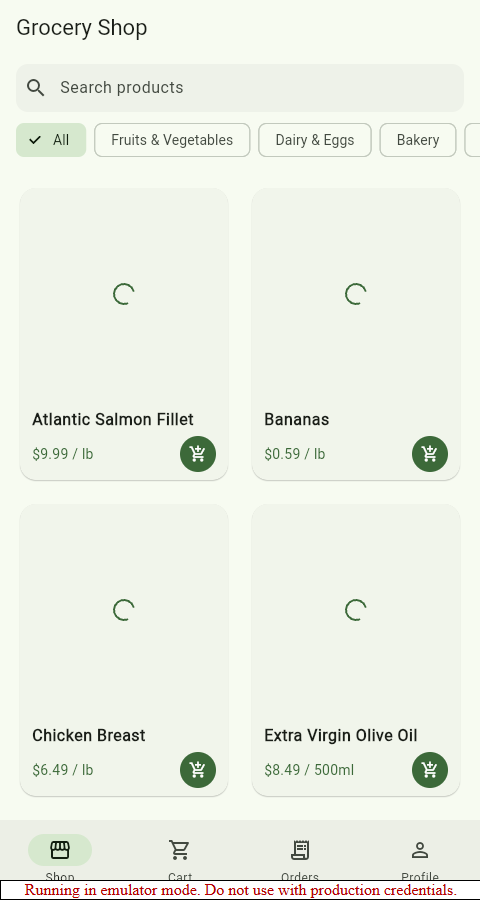
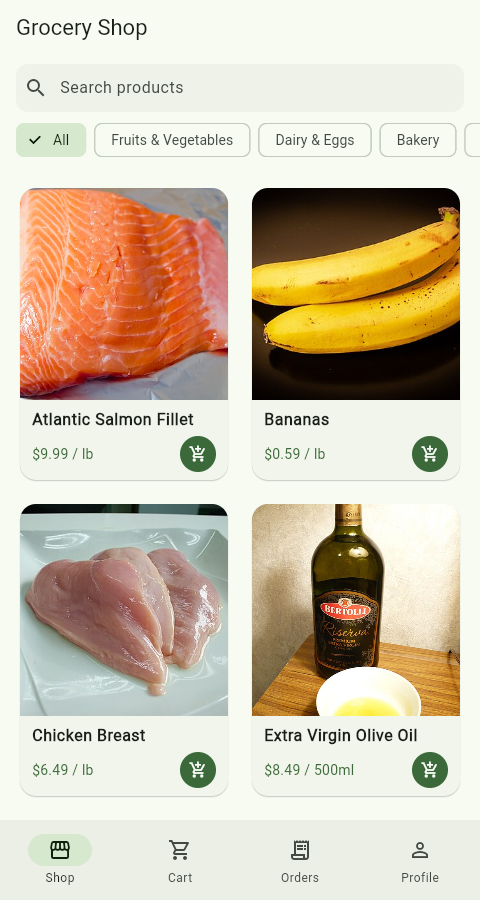
Use real product photos in demo seed data, fix order tile overflow
Replace picsum.photos placeholders (which returned random unrelated
stock photos, not the labeled product) with topically-correct,
CORS-enabled images from Wikimedia Commons for all 16 demo products.

Fix a 1px RenderFlex overflow on the order status chip in OrderTile,
caught by Flutter's debug-mode overflow indicator.

Update docs/screenshots with fresh captures reflecting both fixes.

diff --git a/tool/seed_emulator.dart b/tool/seed_emulator.dart
@@ -17,7 +17,7 @@ final List<Map<String, Object>> _demoProducts = [
     'name': 'Bananas',
     'description': 'Fresh bunch of ripe bananas, sold by the pound.',
     'price': 0.59,
-    'imageUrl': 'https://picsum.photos/seed/bananas/400/400',
+    'imageUrl': 'https://upload.wikimedia.org/wikipedia/commons/thumb/9/98/Bananas_on_black_background_02.jpg/500px-Bananas_on_black_background_02.jpg',
     'category': 'Fruits & Vegetables',
     'unit': 'lb',
     'stock': 150,
@@ -27,7 +27,7 @@ final List<Map<String, Object>> _demoProducts = [
     'name': 'Roma Tomatoes',
     'description': 'Firm, flavorful tomatoes great for sauces and salads.',
     'price': 1.29,
-    'imageUrl': 'https://picsum.photos/seed/tomatoes/400/400',
+    'imageUrl': 'https://upload.wikimedia.org/wikipedia/commons/thumb/b/bf/Roma_Tomatoes_%2853512765752%29.jpg/500px-Roma_Tomatoes_%2853512765752%29.jpg',
     'category': 'Fruits & Vegetables',
     'unit': 'lb',
     'stock': 90,
@@ -37,7 +37,7 @@ final List<Map<String, Object>> _demoProducts = [
     'name': 'Whole Milk',
     'description': 'Vitamin D whole milk, half-gallon carton.',
     'price': 3.49,
-    'imageUrl': 'https://picsum.photos/seed/milk/400/400',
+    'imageUrl': 'https://upload.wikimedia.org/wikipedia/commons/thumb/6/61/Cookies_and_milk.jpg/500px-Cookies_and_milk.jpg',
     'category': 'Dairy & Eggs',
     'unit': 'half-gallon',
     'stock': 60,
@@ -47,7 +47,7 @@ final List<Map<String, Object>> _demoProducts = [
     'name': 'Large Eggs',
     'description': 'Grade A large eggs, dozen.',
     'price': 4.19,
-    'imageUrl': 'https://picsum.photos/seed/eggs/400/400',
+    'imageUrl': 'https://upload.wikimedia.org/wikipedia/commons/thumb/1/12/6-Pack-Chicken-Eggs.jpg/500px-6-Pack-Chicken-Eggs.jpg',
     'category': 'Dairy & Eggs',
     'unit': 'dozen',
     'stock': 80,
@@ -57,7 +57,7 @@ final List<Map<String, Object>> _demoProducts = [
     'name': 'Sourdough Loaf',
     'description': 'Freshly baked sourdough bread.',
     'price': 5.99,
-    'imageUrl': 'https://picsum.photos/seed/sourdough/400/400',
+    'imageUrl': 'https://upload.wikimedia.org/wikipedia/commons/thumb/c/c6/Sourdough_Bread_Loaf.jpg/500px-Sourdough_Bread_Loaf.jpg',
     'category': 'Bakery',
     'unit': 'loaf',
     'stock': 25,
@@ -67,7 +67,7 @@ final List<Map<String, Object>> _demoProducts = [
     'name': 'Chicken Breast',
     'description': 'Boneless, skinless chicken breast.',
     'price': 6.49,
-    'imageUrl': 'https://picsum.photos/seed/chicken/400/400',
+    'imageUrl': 'https://upload.wikimedia.org/wikipedia/commons/thumb/b/b8/Raw_chicken_slices.jpg/500px-Raw_chicken_slices.jpg',
     'category': 'Meat & Seafood',
     'unit': 'lb',
     'stock': 40,
@@ -77,7 +77,7 @@ final List<Map<String, Object>> _demoProducts = [
     'name': 'Atlantic Salmon Fillet',
     'description': 'Fresh salmon fillet, skin-on.',
     'price': 9.99,
-    'imageUrl': 'https://picsum.photos/seed/salmon/400/400',
+    'imageUrl': 'https://upload.wikimedia.org/wikipedia/commons/thumb/9/98/Salmon2.jpg/500px-Salmon2.jpg',
     'category': 'Meat & Seafood',
     'unit': 'lb',
     'stock': 20,
@@ -87,7 +87,7 @@ final List<Map<String, Object>> _demoProducts = [
     'name': 'Jasmine Rice',
     'description': 'Fragrant long-grain jasmine rice, 5 lb bag.',
     'price': 7.99,
-    'imageUrl': 'https://picsum.photos/seed/rice/400/400',
+    'imageUrl': 'https://upload.wikimedia.org/wikipedia/commons/thumb/0/05/Mushqbudji_rice_grains_close-up.jpg/500px-Mushqbudji_rice_grains_close-up.jpg',
     'category': 'Pantry',
     'unit': '5 lb bag',
     'stock': 70,
@@ -97,7 +97,7 @@ final List<Map<String, Object>> _demoProducts = [
     'name': 'Extra Virgin Olive Oil',
     'description': 'Cold-pressed extra virgin olive oil, 500ml.',
     'price': 8.49,
-    'imageUrl': 'https://picsum.photos/seed/oliveoil/400/400',
+    'imageUrl': 'https://upload.wikimedia.org/wikipedia/commons/thumb/4/41/Olive_oil_bottle_Bertolli_Riserva_Premium.jpg/500px-Olive_oil_bottle_Bertolli_Riserva_Premium.jpg',
     'category': 'Pantry',
     'unit': '500ml',
     'stock': 55,
@@ -107,7 +107,7 @@ final List<Map<String, Object>> _demoProducts = [
     'name': 'Orange Juice',
     'description': 'No pulp, 100% orange juice, 52 fl oz.',
     'price': 4.79,
-    'imageUrl': 'https://picsum.photos/seed/oj/400/400',
+    'imageUrl': 'https://upload.wikimedia.org/wikipedia/commons/thumb/6/67/Orange_juice_1_edit1.jpg/500px-Orange_juice_1_edit1.jpg',
     'category': 'Beverages',
     'unit': '52 fl oz',
     'stock': 45,
@@ -117,7 +117,7 @@ final List<Map<String, Object>> _demoProducts = [
     'name': 'Sparkling Water 12-pack',
     'description': 'Unsweetened sparkling water, 12 cans.',
     'price': 5.49,
-    'imageUrl': 'https://picsum.photos/seed/sparkling/400/400',
+    'imageUrl': 'https://upload.wikimedia.org/wikipedia/commons/thumb/6/6c/Sparkling_water_at_sunrise_-_Massachusetts.jpg/500px-Sparkling_water_at_sunrise_-_Massachusetts.jpg',
     'category': 'Beverages',
     'unit': '12-pack',
     'stock': 65,
@@ -127,7 +127,7 @@ final List<Map<String, Object>> _demoProducts = [
     'name': 'Tortilla Chips',
     'description': 'Crunchy corn tortilla chips, family size.',
     'price': 3.99,
-    'imageUrl': 'https://picsum.photos/seed/chips/400/400',
+    'imageUrl': 'https://upload.wikimedia.org/wikipedia/commons/thumb/e/e4/Corn_chips_close_up.jpg/500px-Corn_chips_close_up.jpg',
     'category': 'Snacks',
     'unit': '13 oz bag',
     'stock': 85,
@@ -137,7 +137,7 @@ final List<Map<String, Object>> _demoProducts = [
     'name': 'Mixed Nuts',
     'description': 'Roasted and salted mixed nuts.',
     'price': 6.99,
-    'imageUrl': 'https://picsum.photos/seed/nuts/400/400',
+    'imageUrl': 'https://upload.wikimedia.org/wikipedia/commons/thumb/1/1e/Mixed_nuts_bowl.jpg/500px-Mixed_nuts_bowl.jpg',
     'category': 'Snacks',
     'unit': '10 oz can',
     'stock': 50,
@@ -147,7 +147,7 @@ final List<Map<String, Object>> _demoProducts = [
     'name': 'Frozen Blueberries',
     'description': 'Individually quick-frozen blueberries.',
     'price': 4.49,
-    'imageUrl': 'https://picsum.photos/seed/blueberries/400/400',
+    'imageUrl': 'https://upload.wikimedia.org/wikipedia/commons/thumb/7/78/Blueberries_in_a_little_bowl.jpg/500px-Blueberries_in_a_little_bowl.jpg',
     'category': 'Frozen',
     'unit': '16 oz bag',
     'stock': 35,
@@ -157,7 +157,7 @@ final List<Map<String, Object>> _demoProducts = [
     'name': 'Vanilla Ice Cream',
     'description': 'Classic vanilla bean ice cream.',
     'price': 5.29,
-    'imageUrl': 'https://picsum.photos/seed/icecream/400/400',
+    'imageUrl': 'https://upload.wikimedia.org/wikipedia/commons/thumb/f/fa/Bowl_~_Ice_cream.jpg/500px-Bowl_~_Ice_cream.jpg',
     'category': 'Frozen',
     'unit': '1.5 qt',
     'stock': 0,
@@ -167,7 +167,7 @@ final List<Map<String, Object>> _demoProducts = [
     'name': 'Paper Towels 6-pack',
     'description': 'Absorbent paper towels, 6 double rolls.',
     'price': 9.49,
-    'imageUrl': 'https://picsum.photos/seed/papertowels/400/400',
+    'imageUrl': 'https://upload.wikimedia.org/wikipedia/commons/thumb/1/1f/Roll_of_Paper_Towels.jpg/500px-Roll_of_Paper_Towels.jpg',
     'category': 'Household',
     'unit': '6-pack',
     'stock': 100,

diff --git a/lib/presentation/widgets/order_tile.dart b/lib/presentation/widgets/order_tile.dart
@@ -23,7 +23,7 @@ class OrderTile extends StatelessWidget {
           children: [
             Text(formatPrice(order.totalAmount),
                 style: Theme.of(context).textTheme.titleSmall),
-            const SizedBox(height: 4),
+            const SizedBox(height: 2),
             StatusChip(status: order.status),
           ],
         ),
